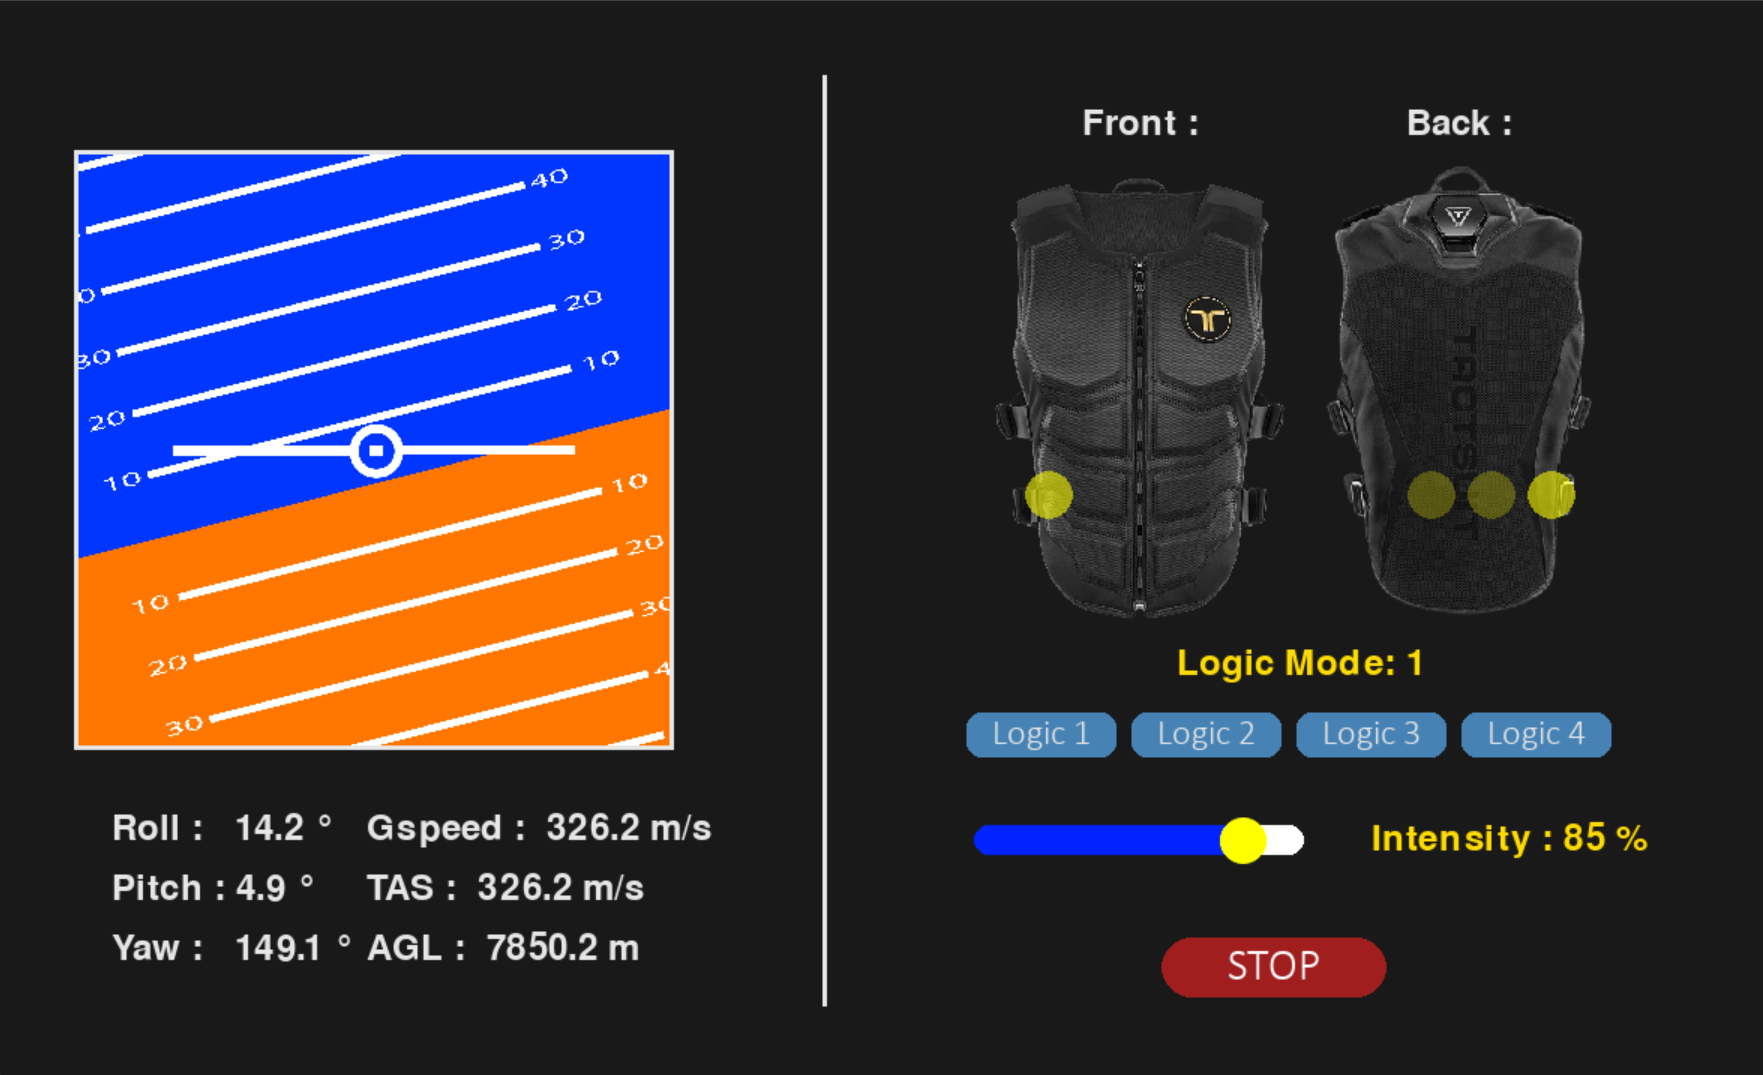
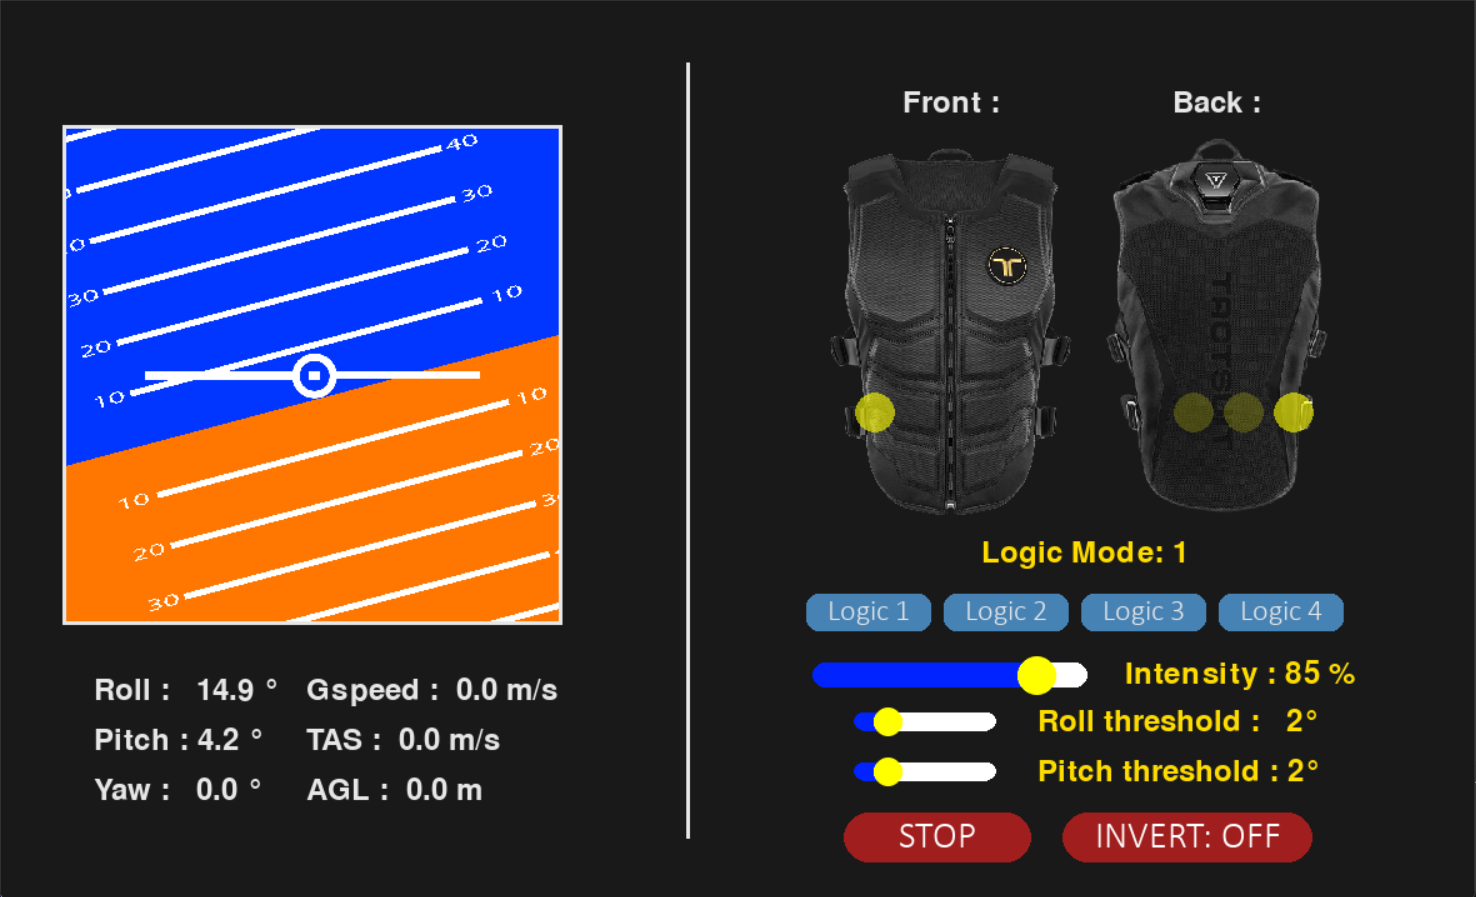
update README.md

diff --git a/README.md b/README.md
@@ -1,17 +1,15 @@
-# XPlane-Haptic-Interface
+# ✈ XPlane-Haptic-Interface
 
-This repository gathers two projects developed during my engineering internship. Both interact with the X-Plane flight simulator:
+Spatial disorientation is a common issue in aviation, often leading to poor decisions and accidents. To address this, this project focus on enhancing situational awareness through intuitive haptic feedback.
+This repository gathers two projects developed during my engineering internship. Both interact with the X-Plane flight simulator :
 
-- 🧠 A **Python program** that retrieves real-time flight data from X-Plane and triggers haptic feedback using the **bHaptics TactSuit X40**.
-- ✈ A **C++ plugin** for X-Plane that displays an interactive window with buttons to trigger failures, adjust weather, or test control surfaces.
-
- Helps pilots fight spatial disorientation in simulator training faut mettre l'accent sur ça là
-
+- A **Python program** that retrieves real-time flight data from X-Plane and triggers haptic feedback using the **bHaptics TactSuit X40**.
+- A **C++ plugin** for X-Plane that displays an interactive window with buttons to trigger failures, adjust weather, or test control surfaces.
 ---
 
 # 🏁 How to use
 
-## Software
+## Softwares
 - Windows 10/11
 - Python 3.13.5 (tested)
 - Visual studio code (recommended)
@@ -83,13 +81,10 @@ You will also need the following dependencies :
    <img src="images/GUI_py.png" alt="Python GUI" width="850"/>
 </p>
 
-*GUI while the plane is pitching and rolling*
-
-
-You can use the buttons to switch between the different operating logics. A slider allows you tu adjust the intensity of the vibrations.
+You can use the buttons to switch between the different operating logics. Three sliders allows you tu adjust the intensity of the vibrations as well as the roll and pitch activation threshold.
 
 ### Operating logics
-The differents vibrating logics are implemented and can be modified through the `logic1.py`, `logic2.py`, `logic3.py`, `logic4.py` files.
+The differents vibrating logics are implemented and can be modified through the `logic1.py`, `logic2.py`, `logic3.py` and `logic4.py` files.
 
 
 ## X-Plane Plugin
@@ -131,24 +126,24 @@ If you close the control panel, you can still re-open on the upper menu :
 ```
 XPlane-Haptic-Interface/
 │
-├── python_interface/            ← Python haptic integration + GUI
+├── python_interface/
     ├── assets/
     ├── combine/
     ├── libs/
     ├── patterns/
     └── main.py
-├── control_panel_xp/            ← C++ plugin for XPlane
+├── control_panel_xp/
     ├── SDK/
     ├── XPlaneConnect/
     ├── plugin_output/
     └── control_panel.cpp
-├── images/                      ← Illustrations for README
+├── images/
 ├── .gitignore
 └── README.md
 ```
 
 ---
-# 👨🔬 Author
+# 👨🏭 Author
 
 
 **Pierre Bourrandy**, 4th year Mechatronics Engineering student - **ENSIL-ENSCI**
@@ -158,4 +153,6 @@ Thanks to **Mr. Houshyar Asadi** for the inspiring topic, support, and trust thr
 
 ## Contact detail
 pierre.bourrandy@etu.unilim.fr *(ENSIL-ENSCI)*
+
+Github : https://github.com/Cnpruat/XPlane-Haptic-Interface
 
